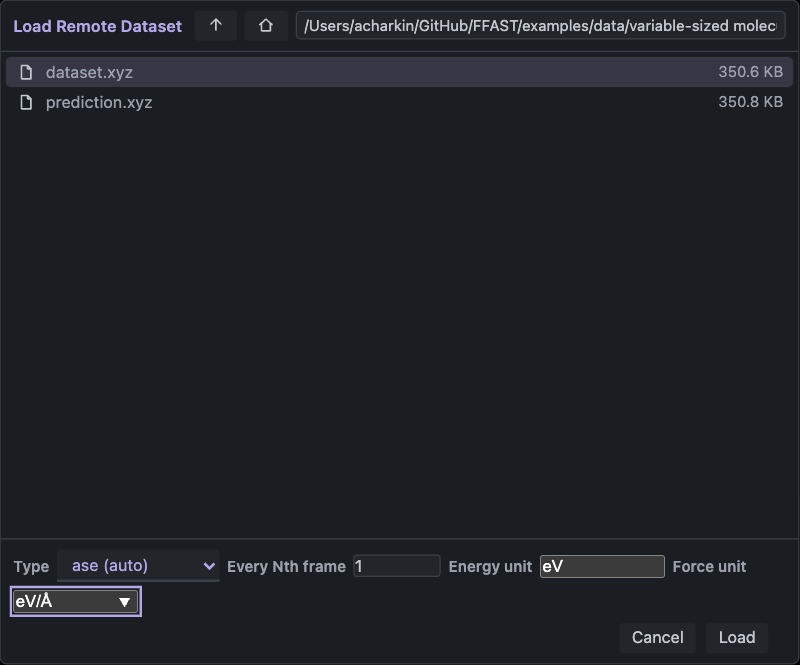
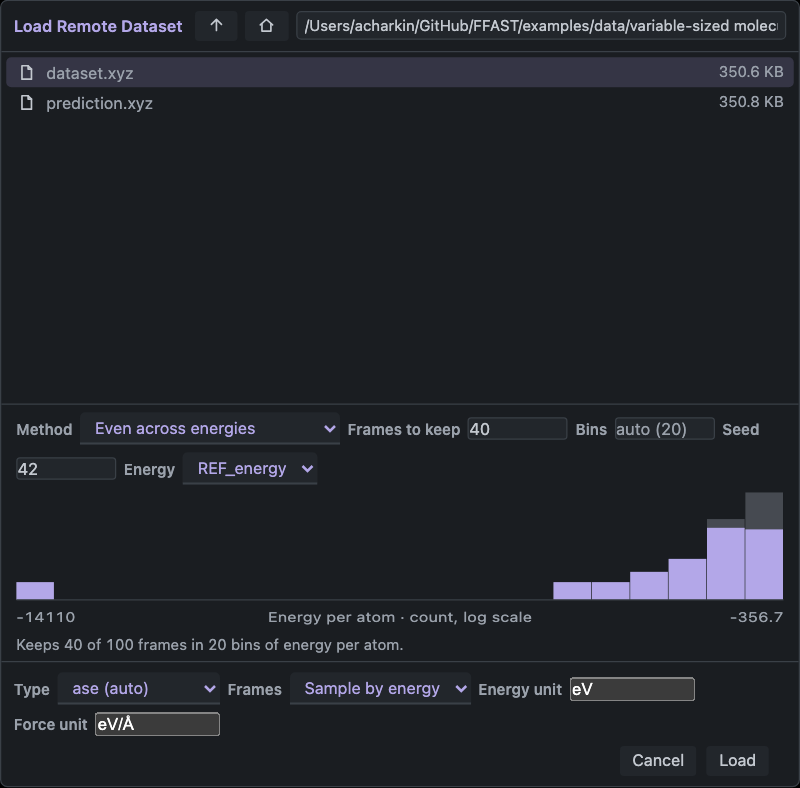
docs: describe loading a sample by energy

diff --git a/docs/usage.md b/docs/usage.md
@@ -121,11 +121,57 @@ variable-sized data), chemical formula, and the fingerprint. The fingerprint is
 an MD5 of the contents and is what the cache keys on, so the same file loaded
 twice costs nothing the second time.
 
-![Dataset-loading dialog with the bundled SPICE reference selected, frame stride set to one, and energy and force units named as eV and eV per angstrom.](images/loading-data.png)
+![Dataset-loading dialog with the bundled SPICE reference selected, Frames set to Sample by energy keeping 40 of its 100 frames, a histogram of energy per atom with the kept frames coloured over all frames, and energy and force units named as eV and eV per angstrom.](images/loading-data.png)
 
-*Select the file, choose a stride if needed, name its stored units, then Load.
-Energy and force columns are selected automatically when unambiguous; otherwise
-the dialog asks which columns to use. Naming units does not convert values.*
+*Select the file, choose which frames to load if needed (here a sample by
+energy, below), name its stored units, then Load. Energy and force columns are
+selected automatically when unambiguous; otherwise the dialog asks which
+columns to use. Naming units does not convert values.*
+
+### Loading a sample by energy
+
+A long trajectory holds many similar low-energy frames and few high-energy
+ones, and the rare high-energy frames are where a force field most often fails.
+**Frames ▸ Every Nth** keeps that mix. **Frames ▸ Sample by energy** keeps N
+frames spread over the whole energy range instead, and reads positions and
+forces for those N only, so it also works for a file too big to load whole.
+
+When you choose it, FFAST reads every frame's energy once (seconds to a minute
+for millions of frames; it remembers them for the next time) and shows a
+histogram: all frames in grey, the frames it would keep in colour. The
+histogram follows the fields as you change them:
+
+- **Method.** *Even across energies* (the default) takes about the same number
+  of frames from each energy bin, so the rare high-energy frames are not
+  drowned out. Use it to look at, or test a model on, the whole energy range.
+  *Keep the energy distribution* takes from each bin in proportion to its size,
+  so the sample looks like the file. Use it when the sample should represent
+  the data, for example a training set. Every bin that has frames keeps at
+  least one either way.
+- **Frames to keep** (N). You get exactly N, or every frame with an energy if
+  the file has fewer.
+- **Bins.** Empty means automatic: it follows how wide the energies spread and
+  how many frames you keep. The number used is shown in the field.
+- **Seed.** Inside a bin, frames are picked at random. The same seed on the same
+  file picks the same frames; another seed picks others, with the same number
+  per bin.
+- **Energy.** Which energy to bin by; it starts on the reference energy. When
+  the frames have different atom counts, FFAST bins the energy per atom, since
+  total energies of different-sized structures are not comparable. The
+  histogram's axis says which.
+
+Frames with no energy are left out of the sample, and FFAST says how many.
+
+A sampled dataset remembers which frames it kept. A prediction you load for it
+reads exactly those frames from its own file, which must have as many frames as
+the dataset's file. A saved session stores the list and loads the same frames
+again; it does not sample anew. The dataset's Info says how it was made, for
+example "5,000 of 1,200,000 frames, sampled by energy (even, seed 42)".
+
+Sampling by energy needs a reader that lists each frame's energy: `.xyz` and
+`.extxyz` files have one, and so can any reader you write
+([Writing a reader](writing-a-reader.md)). For other files the option is
+greyed out.
 
 ### Predictions
 

diff --git a/docs/images/README.md b/docs/images/README.md
@@ -6,7 +6,7 @@ Open an image on GitHub to inspect it at full resolution.
 | Image | Source and state |
 | --- | --- |
 | [hero.png](hero.png) | Custom comparison tab using MD22 Stachyose, SchNet predictions and a reference-plus-noise control. Atoms are coloured by SchNet force error. |
-| [loading-data.png](loading-data.png) | File browser with the bundled SPICE reference selected, stride 1 and its stored units named as eV and eV/Å. |
+| [loading-data.png](loading-data.png) | File browser with the bundled SPICE reference selected, Frames ▸ Sample by energy (even, 40 frames, automatic bins, seed 42, REF_energy per atom) with its preview, and its stored units named as eV and eV/Å. Captured 2026-11-12. |
 | [metric-formula.png](metric-formula.png) | Draft `mean(norm(pred_F - ref_F), by=structure)` tried on the bundled SPICE/MACE pair. The preview contains 100 values; the draft is unsaved. |
 | [tab-editor.png](tab-editor.png) | Custom SPICE analysis tab with force-error density and timeline panels beside a 3D panel. Edit mode shows controls and resize handles; the camera was adjusted to show the molecule. |
 | [lammps-live.png](lammps-live.png) | Bundled aspirin replay after Stop on alarm, inspected at the chemistry onset. Scores and attribution were computed by the real scorer; atom order remains unverified. |
